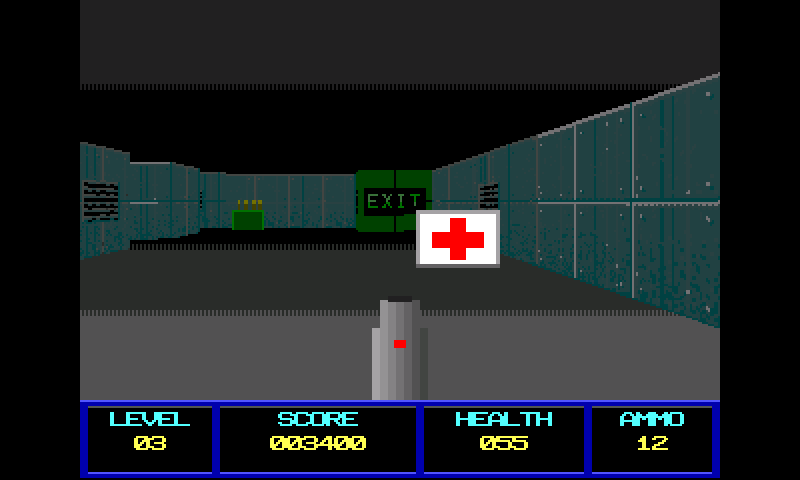
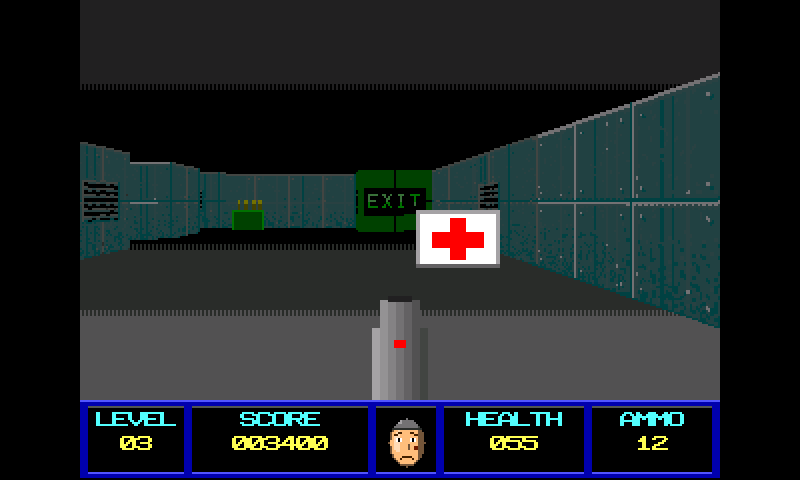
Vault13H: a face in the status bar that shows the health
A vault raider in a steel helmet, 24x30, drawn by the script: smiling
above 80, then tired, bruised, cut with clenched teeth, bloody with a
swollen eye at 20 or less, grey with crossed eyes when dead. It glances
left and right and winces when hit. Screenshots, GIF and README updated.

Changed region(s): [[0.125, 0.8438, 0.7188, 1.0]]

diff --git a/README.md b/README.md
@@ -2358,6 +2358,7 @@ Writing it found a third compiler bug, fixed: `if (rand(400) == 0)`, with `rand`
 - **The palette** is the real VGA default one, rebuilt by the script: the 16 EGA colours, 16 greys, then 24 hues around the wheel in three intensities (bright, medium, dark) and three saturations. Its layout does the distance shading, as the games of the time did: the darker copy of a colour is 72 entries further, so `shadeTab[]` maps each colour to its copies at three distances, and the ceiling and floor bands are dithered where they meet.
 - **The walls** are ray-cast, one column of the view at a time through a 24x24 map: each column's 64 texels are shaded once, then stretched down the column, so every pixel of the view is written once a frame and nothing is cleared. The textures are generated: stones of uneven sizes and bricks, each with a bevel, grain and chips; wood with wavy grain, knots and nails; brushed metal with rivets and grime; cracks, soot and moss on worn variants of the main wall, which some map cells use.
 - **The sprites** (drones, wrecks, gold, health kits, ammo) are sorted far to near and clipped against the walls' depth per column. The drones see the player through the map, follow and fire; two hits bring one down.
+- **The face** in the middle of the status bar is a vault raider in a steel helmet, 24x30 pixels drawn by the script each frame: smiling above 80 health, then tired, bruised, cut with clenched teeth, bloody with a swollen eye at 20 or less, grey with crossed eyes when dead. It glances left and right now and then, and winces, eyes shut and mouth open, when a drone hits.
 - **The keys**: Z forward, S back, Q and D turn (or the arrows), while held (with the key-release hook of [A USB keyboard driving a script](#a-usb-keyboard-driving-a-script)); Space starts and fires; Escape quits.
 
 Writing it found and fixed two compiler issues: a parse error inside nested blocks (`hp[best]--;`, a form the language does not take) crashed the cleanup of the failed compile (part of the parse tree was freed twice), and `?:` or a comparison worked as a value only in parentheses (`(x > 2) ? 1 : 0`): `x > 2 ? 1 : 0`, `a && b ? x : y` and `y = x > 2;` now compile, as in v1.
